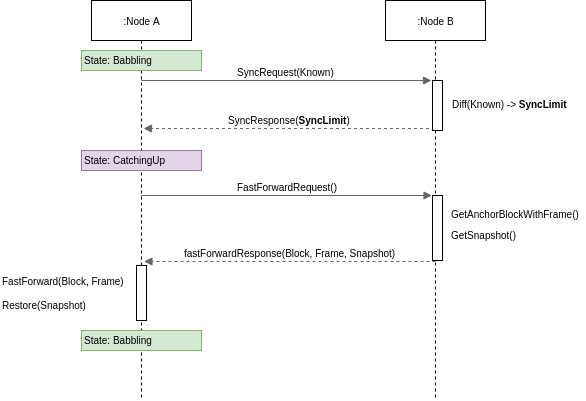
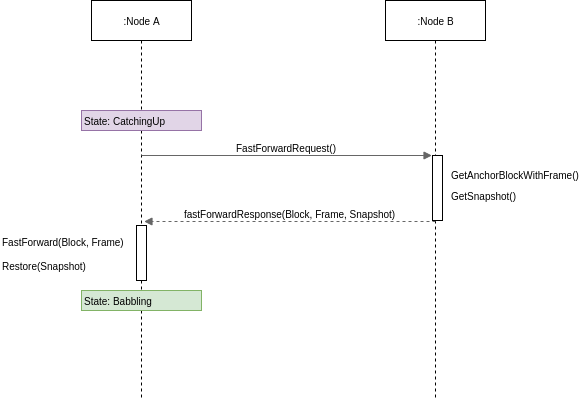
Update docs/fastsync section
FastSync plays a different role in the Babble state-machine. Upon
starting a node that belongs to the current validator set (since
genesis or after joining), the node either fast-syncs or not,
depending on the fast-sync config flag. Hence, fast-sync is no
longer dependant on the sync-limit parameter.

diff --git a/docs/fastsync.rst b/docs/fastsync.rst
@@ -25,19 +25,16 @@ Overview
 
 .. image:: assets/fastsync.png
 
-The Babble node is implemented as a state machine where the possible states are: 
-**Babbling**, **CatchingUp**, and **Shutdown**. A node is normally in the 
-**Babbling** state where it performs the regular Hashgraph gossip routines, but 
-a **sync_limit** response from a peer will trigger the node to enter the 
-**CatchingUp** state, where it will attempt to fast-forward to a recent 
-snapshot. A **sync_limit** response indicates that the number of Events that the
-node needs to download exceeds the **sync_limit** configuration value. 
+The Babble node is implemented as a state-machine where the possible states are: 
+**Babbling**, **CatchingUp**, **Joining**, **Leaving**, and **Shutdown**. When a 
+node is started and belongs to the current validator-set, it will either enter 
+the **Babbling** state, or the **CatchingUp** state, depending on whether the 
+**fast-sync** flag was passed to Babble. 
 
-In the **CatchingUp** state, a node repeatedly chooses another node at random 
-(although the above diagram uses the same peer that returned the **sync_limit** 
-response) and attempts to fast-forward to their last consensus snapshot, until 
-the operation succeeds. Hence, FastSync introduces a new type of command in the 
-communication protocol: *FastForward*.
+In the **CatchingUp** state, a node determines the best node to fast-sync from 
+(the node which is has the longest hashgraph) and attempts to fast-forward to 
+their last consensus snapshot, until the operation succeeds. Hence, FastSync 
+introduces a new type of command in the communication protocol: *FastForward*.
 
 Upon receiving a FastForwardRequest, a node must respond with the last consensus 
 snapshot, as well as the corresponding Hashgraph section (the Frame) and Block. 

diff --git a/docs/usage.rst b/docs/usage.rst
@@ -120,7 +120,7 @@ Babble will use ``peers.json`` as the genesis validator-set.
 
 ``peers.json`` corresponds to the current validator-set. These are the nodes 
 that are allowed to record new Events in the hashgraph, and who will gossip 
-among eachother.
+among each other.
 
 ``peers.json`` and ``gensesis.peers.json`` are not necessarily equal because the
 :ref:`dynamic membership protcol <dynamic_participants>` enables new nodes to 
